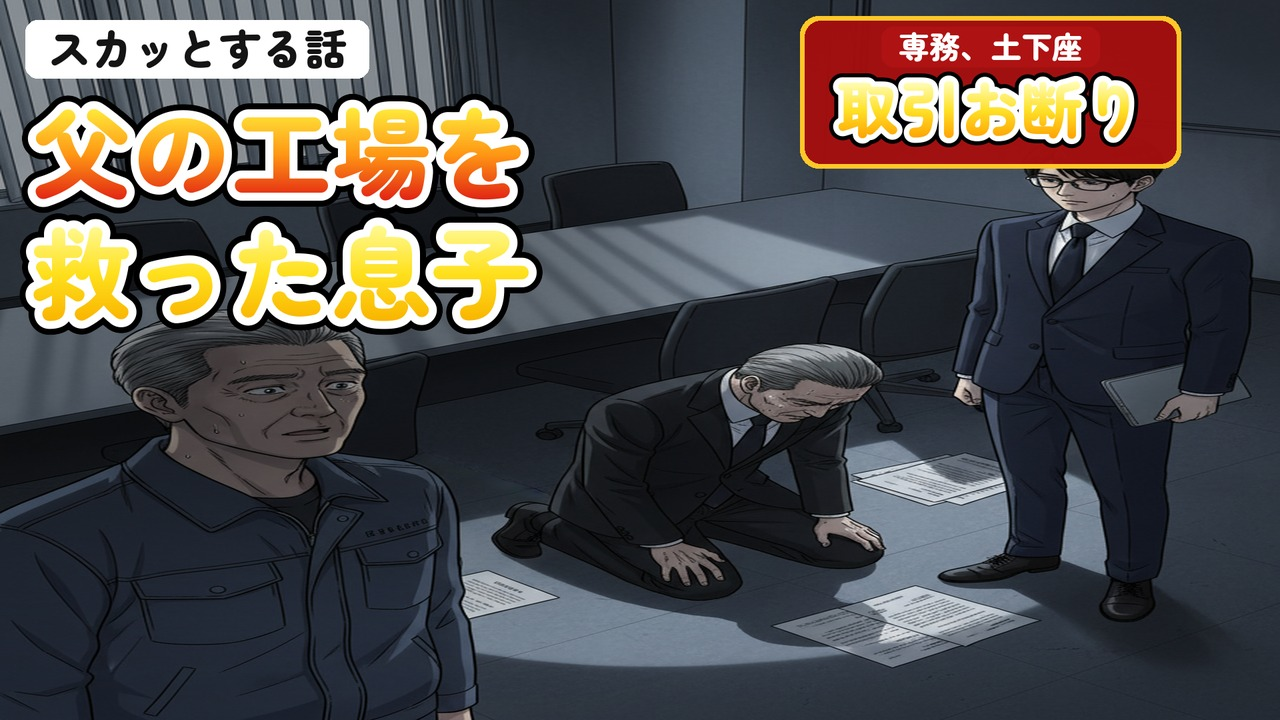
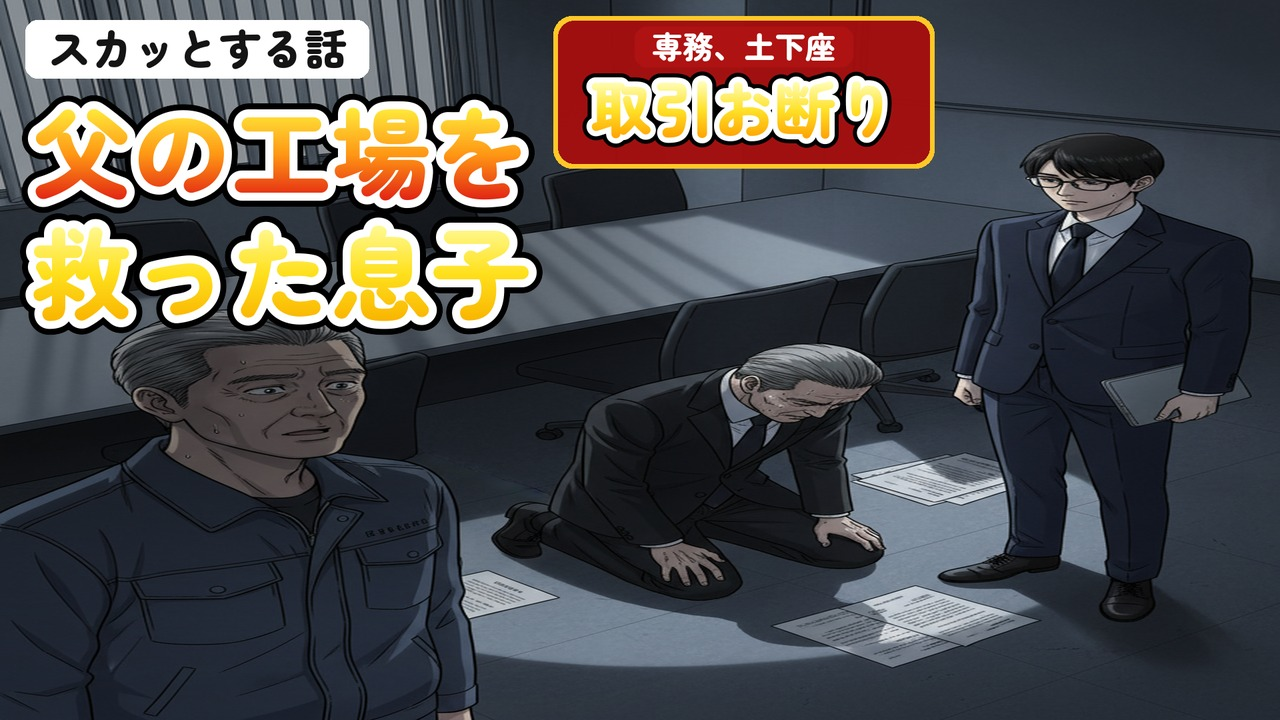
hikikomori thumb B: badge moved to top-centre (was covering son's head)
Claude-Session: https://claude.ai/code/session_01N7M5aRrGWr6VeAMa9sT3DQ

Changed region(s): [[0.4062, 0.0, 0.9375, 0.2444]]

diff --git a/scripts/make_thumbnails_hikikomori.py b/scripts/make_thumbnails_hikikomori.py
@@ -23,7 +23,7 @@ mb.ABC = {
               row_y=300, quote="月商1250万", quote_size=270),  # 2차(2026-10-31): 168px 가독성 — 4줄 → 2줄 + 숫자 확대
     "B": dict(src="thumbB-{n}z.png", side="L", label="スカッとする話",
               rows=[("父の工場を", 150, FIRE, None), ("救った息子", 150, YELLOW, None)],
-              row_y=120, shade=95, shade_w=1000, badge=("専務、土下座", "取引お断り"), badge_xy=(1200, 24), band=None),  # 2차: 글자 2줄 크게(확대는 얼굴 잘림으로 불채택)
+              row_y=120, shade=95, shade_w=1000, badge=("専務、土下座", "取引お断り"), badge_xy=(830, 24), band=None),  # 2차: 글자 2줄 크게(확대는 얼굴 잘림으로 불채택), 배지는 아들 머리를 가려 위쪽 가운데로(2026-10-31)
     "C": dict(src="thumbC-{n}.png", side="R", label="感動する話", label_style="black",
               rows=[("「ゴミ」と呼んだ", 104, RED, None), ("息子が守ったもの", 100, YELLOW, None)], x0=930,
               band=["四年間、黙って", "工場を支えた息子"], band_xy=(1060, 760)),
